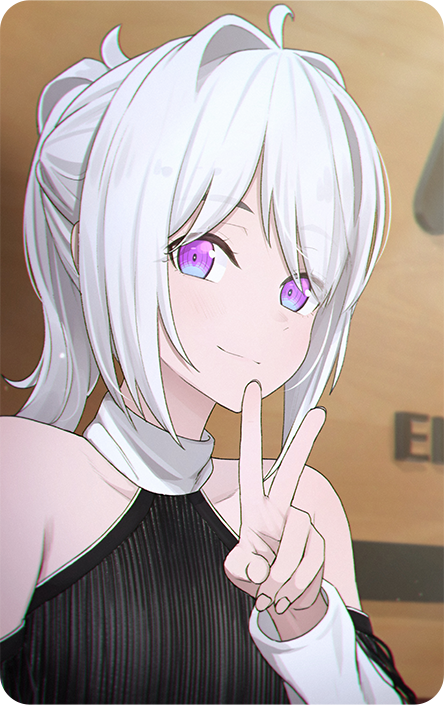
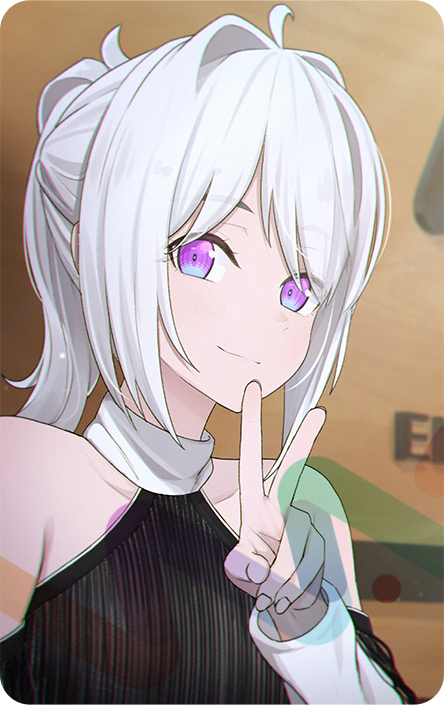
Fix/isedolPWaterMark

diff --git a/src/components/IsedolDetail.js b/src/components/IsedolDetail.js
@@ -3,7 +3,13 @@ import Profile_bg from "../assets/isedolsDetail/Profile_bg.png";
 import { useCallback, useState } from "react";
 import IsedolFadeOut from "./IsedolFadeOut";
 
-const IsedolDetail = ({ isedol, handleModalClose, isModalOpen, top, left }) => {
+const IsedolDetail = ({
+  isedol,
+  handleModalClose,
+  isModalOpen,
+  top,
+  left,
+}) => {
   const [isModal, setisModal] = useState(isModalOpen);
   const handleClick = useCallback(() => {
     setTimeout(() => {
@@ -14,7 +20,9 @@ const IsedolDetail = ({ isedol, handleModalClose, isModalOpen, top, left }) => {
 
   return (
     <div>
-      {isModal ? <IsedolFadeOut isedol={isedol} top={top} left={left} /> : null}
+      {isModal ? (
+        <IsedolFadeOut isedol={isedol} top={top} left={left} />
+      ) : null}
       <section
         className={`isedol_BG ${isModal ? "open" : "close"}`}
         onClick={handleClick}
@@ -25,11 +33,11 @@ const IsedolDetail = ({ isedol, handleModalClose, isModalOpen, top, left }) => {
             src={Profile_bg}
             alt="background"
           />
-          <img
+          {/* <img
             className="isedol_write"
             src={isedol.write}
             alt={`write_${isedol.name}`}
-          />
+          /> */}
           <img
             className="isedol_Profile center"
             src={isedol.image}
